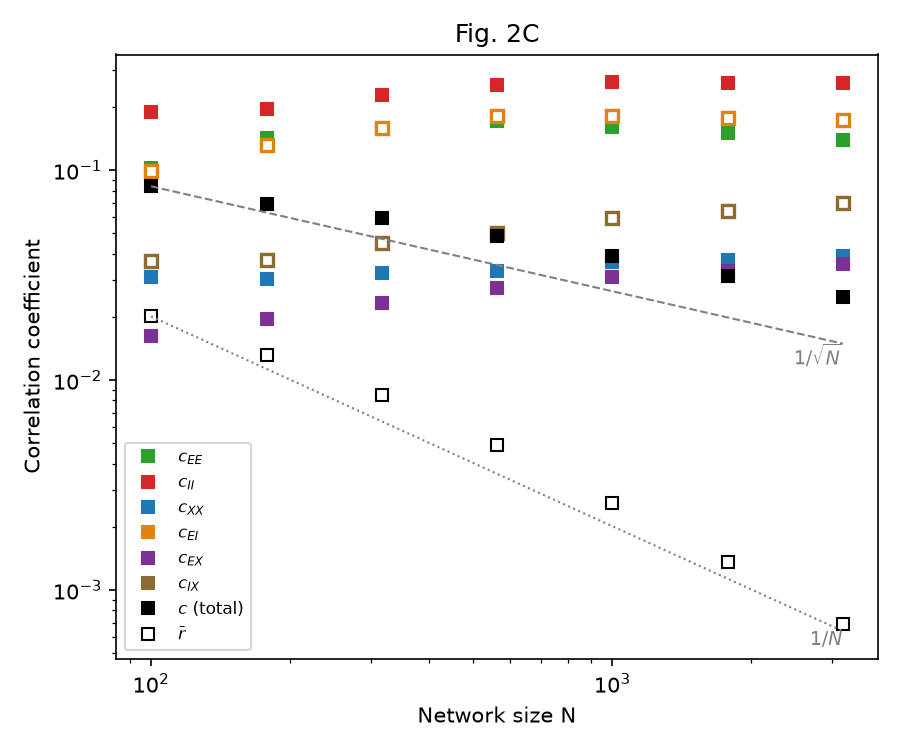
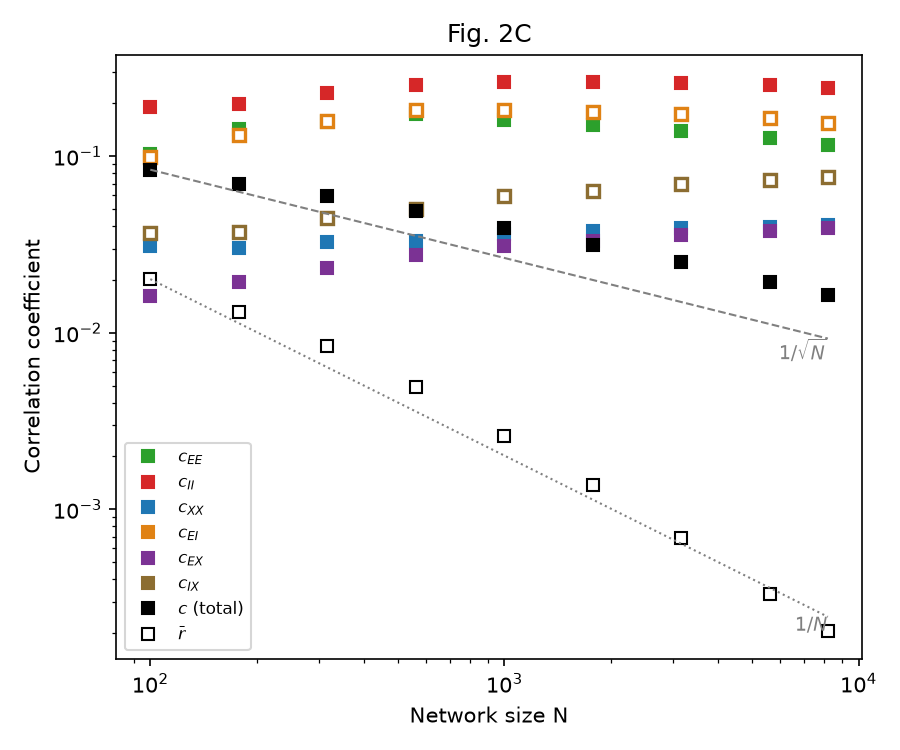
Report Fig. 2C over the full N range up to 8192

diff --git a/reports/renart2010_reproduction.md b/reports/renart2010_reproduction.md
@@ -74,16 +74,19 @@ The total is only **+0.017**, and its peak shrinks from N = 1024 to 8192 (inset)
 **2C. The scaling law, the block's central result** *(reduced sweep, see §4)*. Hollow markers
 are negative values, plotted by magnitude.
 
-| N | 100 | 178 | 316 | 562 | 1000 | 1780 | 3160 |
-|---|---|---|---|---|---|---|---|
-| r̄ (EE) | 2.0e-2 | 1.3e-2 | 8.5e-3 | 4.9e-3 | 2.6e-3 | 1.4e-3 | 6.9e-4 |
-| c (total) | 0.084 | 0.069 | 0.059 | 0.049 | 0.039 | 0.031 | 0.025 |
-| c_EI | −0.10 | −0.13 | −0.16 | −0.18 | −0.18 | −0.18 | −0.17 |
+| N | 100 | 178 | 316 | 562 | 1000 | 1780 | 3160 | 5620 | 8192 |
+|---|---|---|---|---|---|---|---|---|---|
+| r̄ (EE) | 2.0e-2 | 1.3e-2 | 8.5e-3 | 4.9e-3 | 2.6e-3 | 1.4e-3 | 6.9e-4 | 3.3e-4 | 2.0e-4 |
+| c (total) | 0.084 | 0.069 | 0.059 | 0.049 | 0.039 | 0.031 | 0.025 | 0.019 | 0.016 |
+| c_EI | −0.10 | −0.13 | −0.16 | −0.18 | −0.18 | −0.18 | −0.17 | −0.16 | −0.16 |
+| c_II | 0.19 | 0.20 | 0.23 | 0.25 | 0.26 | 0.26 | 0.26 | 0.25 | 0.24 |
 
-r̄ falls exactly along 1/N: 29× over a 32× range of N. The total current correlation falls
-as ~1/√N, 3.4× against √32 = 5.7, approaching that rate at large N. The components stay
-O(0.1–0.25) and **c_EI grows more negative** as N grows. That is the cancellation: each term
-stays large, while their sum vanishes.
+**r̄ falls along 1/N**: 98× over an 82× range of N (fitted slope −1.06; realisation SEM
+under 1 % of the mean at N = 8192). **The total current correlation falls towards 1/√N**:
+the fitted slope over the whole range is −0.37, but it steepens with N, to −0.47 between
+N = 3160 and 8192. The components stay O(0.1–0.25) at every N. c_EI becomes more negative
+up to N ≈ 600 and then holds at about −0.16, while c_EE and c_II shrink slightly with it.
+That is the cancellation: each term stays large, while their sum vanishes.
 
 ![Fig. 2G](figures/fig2g.png)
 
@@ -165,7 +168,8 @@ and almost nothing is left. In vitro this needs only paired whole-cell recording
 
 ## 4. Deviations to state on the slides
 
-- **Fig. 2C is a reduced sweep**: 40 000 τ per realisation and 5–20 realisations per N, against
+- **Fig. 2C is a reduced sweep**: 40 000 τ per realisation, and 5–20 realisations per N for r̄
+  (2–3 for the current decomposition), against
   the paper's 200 000 τ and 50. Every N up to 8192 is kept, and each point's noise is ~√5
   wider. The paper's protocol costs ~16–24 h per N = 8192 realisation here.
 - **I rate 3.98 Hz vs 3.6 Hz** (+10 %), consistent over all 10 networks. E rate and r̄ are on

diff --git a/reports/talk_outline.md b/reports/talk_outline.md
@@ -24,7 +24,8 @@ How can dense networks be asynchronous? Shared input should force correlations o
 
 **5. Fig. 2E/2C — the cancellation and the 1/N law (2 min).** `fig2e.png`, `fig2c.png`
 - At N = 8192: II +0.25, EE +0.11, XX +0.04, EI −0.16 → total +0.017.
-- r̄ falls as 1/N (2.0e-2 → 6.9e-4 over N = 100 → 3160), c as ~1/√N; components stay O(1).
+- r̄ falls as 1/N (2.0e-2 → 2.0e-4 over N = 100 → 8192, slope −1.06). c falls towards 1/√N
+  (0.084 → 0.016; local slope −0.47 at the largest N). The components stay O(0.1–0.25).
 - Say: "nothing is fine-tuned; the cancellation is dynamical."
 
 **6. Fig. 3A/3B — a realistic conductance-based network (2 min).** `fig3a.png`, `fig3b.png`
